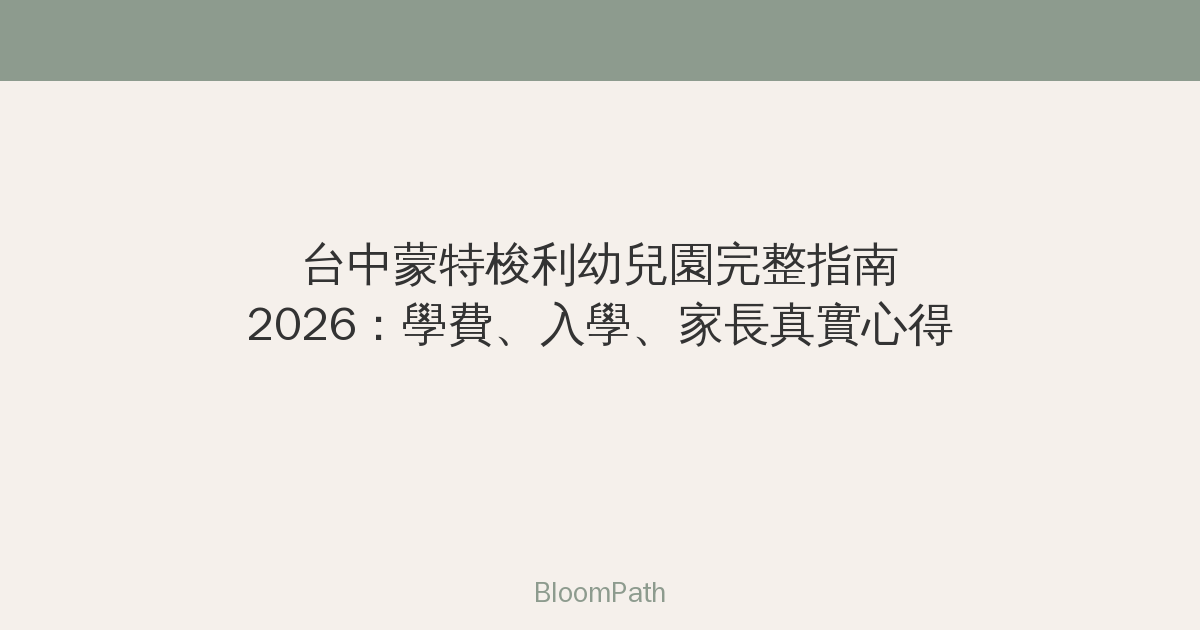
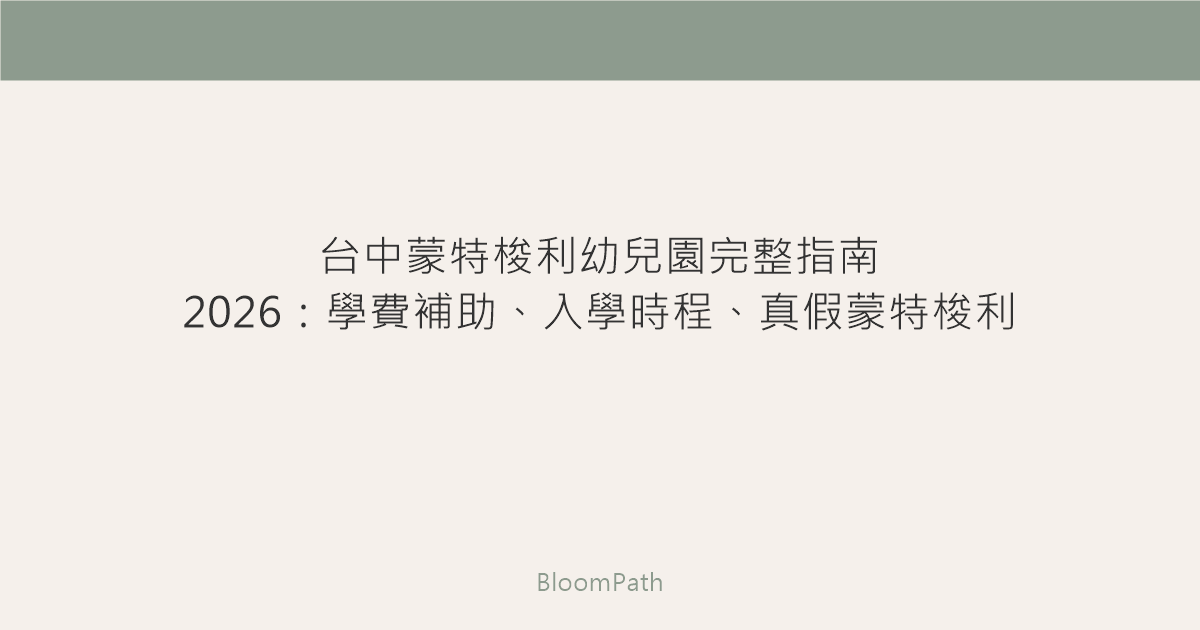
Fact-check the Taichung guide; remove invented stories and citations
Taichung guide: the forum post, the quoted mother and the "three real
Taichung parents" were invented, and the title promised them, so they
are gone. Replaced fee guesses with the official monthly caps for
public, non-profit and quasi-public kindergartens and the subsidy for
private ones; added the 2026 Taichung registration dates; fixed the
teacher-ratio claim (AMI classes are 24-35 children with one trained
teacher); dated the PNAS study correctly (2025) and redrew the preview
image, which still showed the old title.

Kindergarten guide: dropped the invented Excel story and a remark
credited to the author's wife, and replaced a citation to a paper that
does not exist ("Collins et al., PNAS 2026") with the real one
(Lillard et al., PNAS 2025), plus two unverifiable sources.

Changed region(s): [[0.1542, 0.3619, 0.8633, 0.5429], [0.4317, 0.9048, 0.555, 0.9651]]

diff --git a/src/content/blog/kindergarten-guide-taiwan-2026-zh.md b/src/content/blog/kindergarten-guide-taiwan-2026-zh.md
@@ -21,7 +21,7 @@ ageGroup: ["preschool"]
 
 ## 重點整理
 
-- 台灣幼兒園分五大類：公幼（月費NT$1,000）、非營利、準公共、一般私立、[蒙特梭利居家實踐](/zh/blog/montessori-at-home-guide-zh)/雙語私立
+- 台灣幼兒園分五大類：公幼（月費NT$1,000）、非營利、準公共、一般私立、蒙特梭利／雙語私立
 - 公幼最便宜但抽籤錄取率部分縣市不到30%，通常只收4-6歲
 - 真正的蒙特梭利：混齡編班、教室有完整教具區、老師受過AMI/AMS認證訓練
 - 雙語幼兒園費用差距大（月費NT$8,000-25,000+），不是每間都有合格外師
@@ -30,19 +30,13 @@ ageGroup: ["preschool"]
 
 ---
 
-我女兒快三歲的那個冬天，我打開了一個 Excel。
+很多爸媽選幼兒園的第一步，是打開一個 Excel。
 
-不是要計算什麼投資報酬率，是要比較幼兒園。
+把公幼、準公共、蒙特梭利、雙語全部列成欄位，費用、教學法、通勤時間全都打分。試算完之後，以為自己找到答案了。
 
-工程師本能——把公幼、準公共、蒙特梭利、雙語全部列成欄位，費用、教學法、通勤時間、開放式廚房（對，我妻子很在意這個）全都打分。試算完之後，我以為自己找到答案了。
+但表格排得再漂亮，也看不到孩子在教室裡的樣子。不是數據沒用，是幼兒園這件事，數字只是起點，不是終點。
 
-然後我妻子問了一個問題：「可是你有去參觀過嗎？」
-
-沒有。
-
-那一刻我才發現，表格排得再漂亮，也看不到孩子在教室裡的樣子。不是數據沒用，是幼兒園這件事，數字只是起點，不是終點。
-
-這篇文章是我希望當初有人寫給我看的。費用、教學法、補助政策，全部整理在一起，加上一些家長常踩的雷。
+這篇文章把費用、教學法、補助政策全部整理在一起，加上一些家長常踩的雷，幫你先把「數字」這一步做完，剩下的交給參觀。
 
 
 ---
@@ -128,11 +122,11 @@ ageGroup: ["preschool"]
 
 **怎麼學：** 混齡教室（通常3-6歲一起），孩子自己選擇「工作」（他們不說「玩」，說「工作」），老師不主動打斷，讓孩子完成整個學習循環。
 
-**有什麼科學依據？** 2026年發表在《美國國家科學院院刊》(PNAS) 的一項隨機對照試驗（RCT）發現，蒙特梭利教育對兒童的執行功能、閱讀能力和社會情緒發展有顯著且持久的正面影響。這是目前蒙特梭利[2026全國蒙特梭利研究](/zh/blog/montessori-national-study-2026-results-zh)中設計最嚴謹的大型研究之一。
+**有什麼科學依據？** 2025 年發表在《美國國家科學院院刊》（PNAS）的全國性隨機對照試驗，追蹤美國 24 所公立蒙特梭利學校的 588 名孩子：到幼兒園大班結束時，蒙特梭利組在閱讀、短期記憶、執行功能和社會理解上都顯著較佳。這是目前設計最嚴謹的蒙特梭利大型研究之一（[研究整理](/zh/blog/montessori-national-study-2026-results-zh/)）。
 
-（來源：Collins et al., PNAS, 2026）
+（來源：Lillard et al., PNAS, 2025）
 
-**我妻子的觀察：** 蒙特梭利最大的實際效果，不是學術成績，是孩子對「我能做到」的自信感，以及「我能專注在一件事上」的能力——這兩樣東西在台灣小學以後反而越來越重要。
+**研究之外，值得留意的一點：** 蒙特梭利最大的實際效果，可能不是學術成績，而是孩子對「我能做到」的自信感，以及「我能專注在一件事上」的能力——這兩樣東西在台灣小學以後反而越來越重要。
 
 ### 雙語幼兒園
 
@@ -304,10 +298,8 @@ ageGroup: ["preschool"]
 *最後更新：2026年4月。台灣幼兒園補助政策每年調整，建議報名前再次確認所在縣市最新規定。*
 
 *參考資料：*
-- *台灣行政院兒童照顧政策2.0 (Executive Yuan, 2024)*
-- *Collins et al., "Long-term effects of Montessori education on executive function and academic outcomes," PNAS, 2026*
-- *幼兒教師訪談資料，MomBaby，2024*
-- *天才領袖幼兒教育研究，2026年2月*
+- *行政院「[0-6歲國家一起養 2.0](https://www.ey.gov.tw/Page/5A8A0CB5B41DA11E/1edab400-96b1-479d-919d-8ee14340fd26)」*
+- *Lillard et al., "[A national randomized controlled trial of the impact of public Montessori preschool at the end of kindergarten](https://www.pnas.org/doi/10.1073/pnas.2506130122)," PNAS, 2025*
 
 
 ---

diff --git a/src/content/blog/taiwan-parenting-subsidy-2026-guide-zh.md b/src/content/blog/taiwan-parenting-subsidy-2026-guide-zh.md
@@ -123,7 +123,7 @@ ageGroup: ["infant", "toddler"]
 - [加碼津貼 vs. 準時下班：兒盟最新調查揭密，台灣媽媽真正想要的不是錢](/zh/blog/taiwan-flexible-work-vs-childcare-subsidy-zh)
 - [2026 幼兒園怎麼選？公幼 vs 蒙特梭利 vs 雙語園學費＋特色完整比較](/zh/blog/kindergarten-guide-taiwan-2026-zh)
 - [2026 台北蒙特梭利學校選哪間？TMIS 長華、T.I.M.E.S、Y2MAC 學費＋特色完整比較](/zh/blog/taipei-montessori-schools-2026-zh)
-- [台中蒙特梭利幼兒園完整指南 2026：學費行情、入學眉角、家長真實心得](/zh/blog/taichung-montessori-schools-2026-zh)
+- [台中蒙特梭利幼兒園完整指南 2026：學費與補助、入學時程、真假蒙特梭利怎麼分](/zh/blog/taichung-montessori-schools-2026-zh)
 
 ---
 
